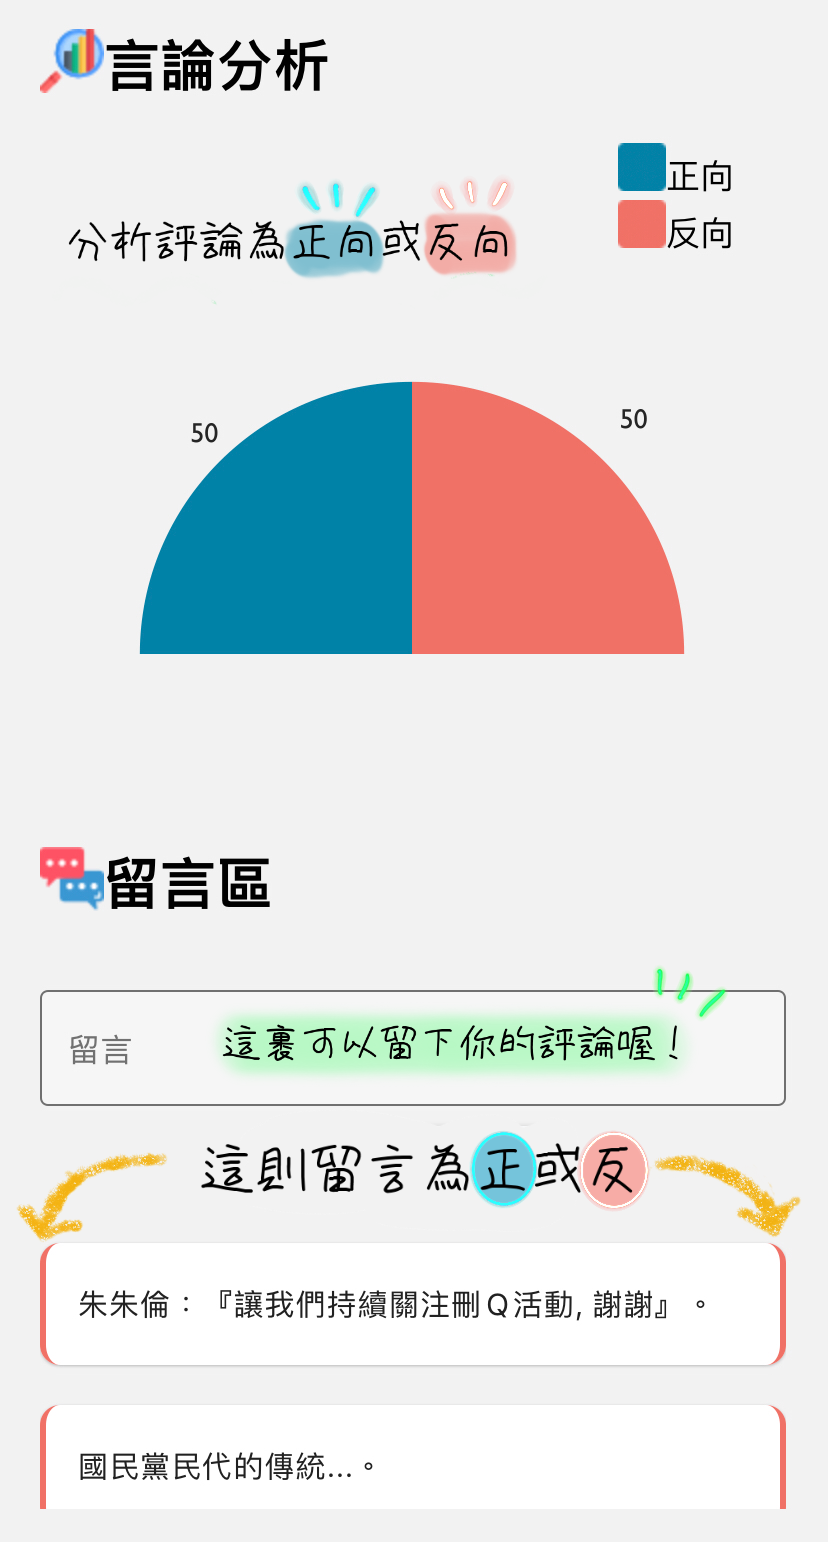
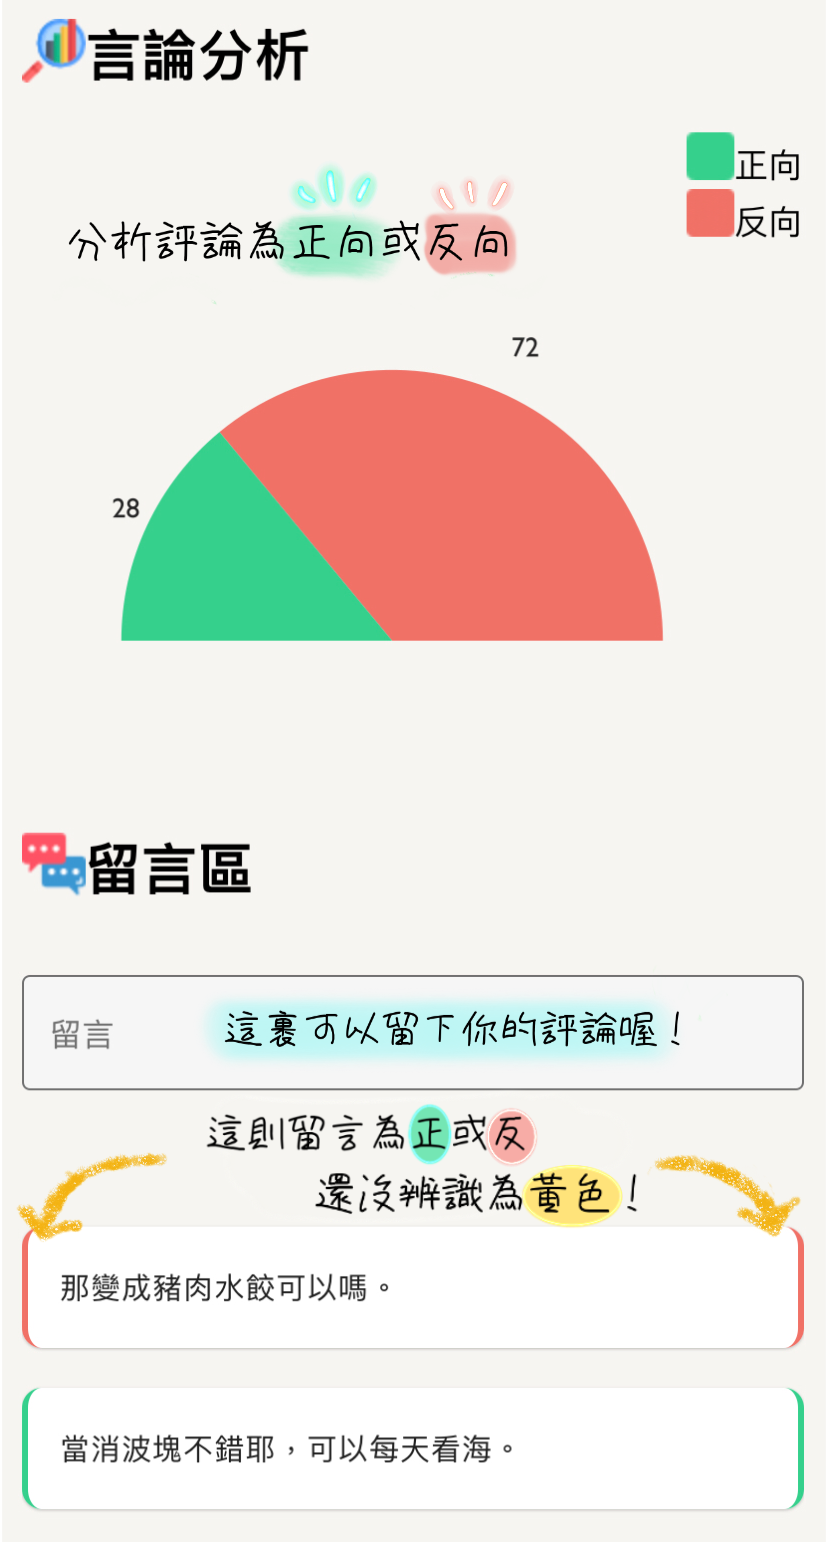
2021/12/13

diff --git a/componemt/NewsForCFT.js b/componemt/NewsForCFT.js
@@ -14,39 +14,43 @@ export default function NewsForPF({ item }) {
   //----------------------------------------------------------------------//
   //  新聞的真實程度
   const Rell = () => {
-    if (item.Reliability <= 33 && item.Reliability >=1 ) {
+    if (item.Reliability <= 33 && item.Reliability >= 1) {
       return (
-        <Image
-          style={{ alignSelf: "flex-end", marginRight: 25 }}
-          source={require("../assets/bad.png")}
-        />
+        <View style={{ alignSelf: "flex-end",flexDirection: "row",marginBottom:15 }}>
+          <Image
+            source={require("../assets/bad.png")}
+          />
+          <Text style={{marginLeft:5,marginRight: 10 ,marginTop:8, color:"red" }}>{item.Reliability}%</Text>
+        </View>
       );
     } else if (item.Reliability >= 34 && item.Reliability <= 67) {
       return (
-        <Image
-          style={{ alignSelf: "flex-end", marginRight: 25 }}
-          source={require("../assets/medium.png")}
-        />
+        <View style={{ alignSelf: "flex-end",flexDirection: "row",marginBottom:15 }}>
+          <Image
+            source={require("../assets/medium.png")}
+          />
+          <Text style={{marginLeft:5,marginRight: 10 ,marginTop:8, color:"#DCB731" }}>{item.Reliability}%</Text>
+        </View>
       );
     } else if (item.Reliability >= 68 && item.Reliability <= 100) {
       return (
-        <Image
-          style={{ alignSelf: "flex-end", marginRight: 25 }}
-          source={require("../assets/good.png")}
-        />
+        <View style={{ alignSelf: "flex-end",flexDirection: "row",marginBottom:15 }}>
+          <Image
+            source={require("../assets/good.png")}
+          />
+          <Text style={{marginLeft:5,marginRight: 10 ,marginTop:8, color:"green" }}>{item.Reliability}%</Text>
+        </View>
       );
-    } else  {
+    } else {
       return (
         <Image
-          style={{ alignSelf: "flex-end", marginRight: 25 }}
+          style={{ alignSelf: "flex-end", marginRight: 25, margin: 15 }}
           source={require("../assets/error.png")}
         />
       );
-    
     }
   };
-
-  return (
+                                                                                                                                                                                                                                                                                                                                  return (
     <Card style={styles.container}>
       <Text style={styles.text}>{item.Title}</Text>
 

diff --git a/componemt/News.js b/componemt/News.js
@@ -3,9 +3,12 @@
 //****************************************//
 
 import React from "react";
-import { View, Text, StyleSheet, Image, TouchableOpacity } from "react-native";
+import { View, Text, StyleSheet, Image, TouchableOpacity,Dimensions } from "react-native";
 import { Card } from "react-native-paper";
 import moment from "moment";
+
+const windowWidth = Dimensions.get("window").width;
+const windowHeight = Dimensions.get("window").height;
 
 export default function News({ navigation, item }) {
   const time = moment(item.Date || moment.now()).fromNow();
@@ -15,24 +18,30 @@ export default function News({ navigation, item }) {
   const Rell = () => {
     if (item.Reliability <= 33 && item.Reliability >= 1) {
       return (
-        <Image
-          style={{ alignSelf: "flex-end", marginRight: 25, margin: 15 }}
-          source={require("../assets/bad.png")}
-        />
+        <View style={{ alignSelf: "flex-end",flexDirection: "row",marginBottom:15 }}>
+          <Image
+            source={require("../assets/bad.png")}
+          />
+          <Text style={{marginLeft:5,marginRight: 10 ,marginTop:8, color:"red" }}>{item.Reliability}%</Text>
+        </View>
       );
     } else if (item.Reliability >= 34 && item.Reliability <= 67) {
       return (
-        <Image
-          style={{ alignSelf: "flex-end", marginRight: 25, margin: 15 }}
-          source={require("../assets/medium.png")}
-        />
+        <View style={{ alignSelf: "flex-end",flexDirection: "row",marginBottom:15 }}>
+          <Image
+            source={require("../assets/medium.png")}
+          />
+          <Text style={{marginLeft:5,marginRight: 10 ,marginTop:8, color:"#DCB731" }}>{item.Reliability}%</Text>
+        </View>
       );
     } else if (item.Reliability >= 68 && item.Reliability <= 100) {
       return (
-        <Image
-          style={{ alignSelf: "flex-end", marginRight: 25, margin: 15 }}
-          source={require("../assets/good.png")}
-        />
+        <View style={{ alignSelf: "flex-end",flexDirection: "row",marginBottom:15 }}>
+          <Image
+            source={require("../assets/good.png")}
+          />
+          <Text style={{marginLeft:5,marginRight: 10 ,marginTop:8, color:"green" }}>{item.Reliability}%</Text>
+        </View>
       );
     } else {
       return (
@@ -64,7 +73,7 @@ const styles = StyleSheet.create({
   container: {
     backgroundColor: "white",
     marginHorizontal: 10,
-    height: 530,
+    height: windowHeight*0.58,
     width: 300,
     borderColor: "#CEBCB6",
     borderWidth: 1,

diff --git a/componemt/Authenticity.js b/componemt/Authenticity.js
@@ -2,29 +2,41 @@
 //            新聞（真實度）
 //****************************************//
 import React from "react";
-import { Image } from "react-native";
+import { Image, View, Text } from "react-native";
 
 const Rel = (props) => {
   if (props.index <= 33 && props.index >= 1) {
     return (
-      <Image
-        style={{ alignSelf: "flex-end", marginRight: 18 }}
-        source={require("../assets/bad.png")}
-      />
+      <View style={{alignSelf: "flex-end",flexDirection: "row",marginBottom: 18,}}>
+        <Image source={require("../assets/bad.png")} />
+        <Text
+          style={{ marginLeft: 5, marginTop: 8, color: "red" }}
+        >
+          {props.index}%
+        </Text>
+      </View>
     );
   } else if (props.index >= 34 && props.index <= 67) {
     return (
-      <Image
-        style={{ alignSelf: "flex-end", marginRight: 18 }}
-        source={require("../assets/medium.png")}
-      />
+      <View style={{alignSelf: "flex-end",flexDirection: "row",marginBottom: 18,}}>
+      <Image source={require("../assets/medium.png")} />
+      <Text
+        style={{ marginLeft: 5, marginTop: 8, color: "#DCB731" }}
+      >
+        {props.index}%
+      </Text>
+    </View>
     );
   } else if (props.index >= 68 && props.index <= 100) {
     return (
-      <Image
-        style={{ alignSelf: "flex-end", marginRight: 18 }}
-        source={require("../assets/good.png")}
-      />
+      <View style={{alignSelf: "flex-end",flexDirection: "row",marginBottom: 18,}}>
+      <Image source={require("../assets/good.png")} />
+      <Text
+        style={{ marginLeft: 5, marginTop: 8, color: "green" }}
+      >
+        {props.index}%
+      </Text>
+    </View>
     );
   } else {
     return (

diff --git a/App.js b/App.js
@@ -11,6 +11,7 @@ import Classification from "./screen/Classification";
 import ApiForCFT from "./componemt/ApiForCFT";
 import SearchResult from "./screen/SearchResult";
 import Intro from "./screen/intro";
+import SearchKw from "./screen/SearchKw";
 import NewsDetailsForKw from "./screen/NewsDetailsForKw";
 
 const Tab = createBottomTabNavigator();
@@ -36,6 +37,11 @@ function HomeStark() {
       <Stack.Screen
         name="SearchResult"
         component={SearchResult}
+        options={{ title: "搜尋" }}
+      />
+      <Stack.Screen
+        name="SearchKw"
+        component={SearchKw}
         options={{ title: "搜尋" }}
       />
       <Stack.Screen
@@ -73,8 +79,8 @@ function classification() {
         options={{ headerShown: false }}
       />
       <Stack.Screen
-        name="SearchResult"
-        component={SearchResult}
+        name="SearchKw"
+        component={SearchKw}
         options={{ title: "搜尋" }}
       />
       <Stack.Screen

diff --git a/screen/SearchKw.js b/screen/SearchKw.js
@@ -6,7 +6,7 @@ import React, { useEffect, useState } from "react";
 import { FlatList, TouchableOpacity, StyleSheet,Dimensions,Text,SafeAreaView,View } from "react-native";
 import NewsForCFT from "../componemt/NewsForCFT";
 
-export default function SearchResult({ navigation, route }) {
+export default function SearchKw({ navigation, route }) {
   const searchkey = route.params.key || "nothing get";
   const [data, setData] = useState([]);
 
@@ -25,7 +25,7 @@ export default function SearchResult({ navigation, route }) {
   //-------------------------------------------------------------------------//
   //  點擊跳轉到'NewsDetails'
   const showNoticeDetail = (item) => {
-    navigation.navigate("NewsDetails", (item = { item }));
+    navigation.navigate("NewsDetailsForKw", (item = { item }));
   };
 
   const IsNull = () =>{

diff --git a/componemt/Search.js b/componemt/Search.js
@@ -48,8 +48,8 @@ export default function Search(props) {
 const styles = StyleSheet.create({
     inputWrap: {
       width: "100%",
-      borderWidth: 1,
-      borderColor: "#ccc",
+      borderWidth: 1.5,
+      borderColor: "#D1C0B7",
       paddingVertical: 8,
       display: "flex",
       flexDirection: "row",
@@ -64,7 +64,7 @@ const styles = StyleSheet.create({
       flex: 1 / 5,
       color: "#F5EDE6",
       borderLeftWidth: 2,
-      borderLeftColor: "#ccc",
+      borderLeftColor: "#D1C0B7",
     },
     buttonTextStyle: {
       textAlign: "center",

diff --git a/componemt/Keyword.js b/componemt/Keyword.js
@@ -23,7 +23,7 @@ export default function Keyword(props){
               renderItem={({ item }) => {
                 return(
                   <TouchableOpacity
-                    onPress={() =>navigation.navigate("SearchResult", { key: item.keyword })}
+                    onPress={() =>navigation.navigate("SearchKw", { key: item.keyword })}
                   >
                     <Text style={styles.kw}>{item.keyword}</Text>
                   </TouchableOpacity>

diff --git a/componemt/CommentBox.js b/componemt/CommentBox.js
@@ -39,7 +39,12 @@ const CommentBox = ({ item }) => {
   };
 
   if (item != "!") {
-    const color = 0 === item.sentiment ? "#f07167" : "#36D08D";
+    const color =
+      0 === item.sentiment
+        ? "#f07167"
+        : 1 === item.sentiment
+        ? "#36D08D"
+        : "#FFD83C";
     return (
       <SafeAreaView>
         <Card

diff --git a/screen/PoupularNews.js b/screen/PoupularNews.js
@@ -10,10 +10,7 @@ import {
   StyleSheet,
   TouchableOpacity,
   View,
-  TextInput,
-  Image,
 } from "react-native";
-import { Icon } from "react-native-elements";
 import News from "../componemt/News";
 import Carousel from "react-native-snap-carousel";
 import Search from "../componemt/Search";

diff --git a/screen/NewsDetailsForKw.js b/screen/NewsDetailsForKw.js
@@ -95,7 +95,7 @@ export default function NewsDetailsForKw({ route, navigation }) {
       );
     }
   };
-
+  
   return (
     <View style={styles.content}>
       <View style={{ margin: 10 }}>
